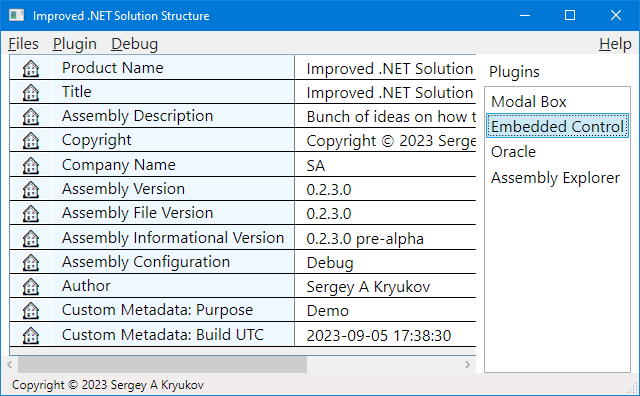
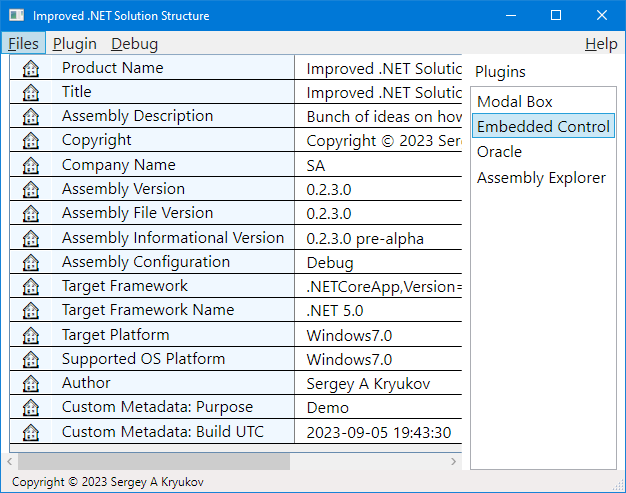
Agnostic > All, Article: new attributes

diff --git a/code/3-Application/Demo.Structure/View/WindowMain.xaml b/code/3-Application/Demo.Structure/View/WindowMain.xaml
@@ -113,9 +113,12 @@
         <Border Grid.Row="1" x:Name="borderPluginHostContaner" Visibility="Collapsed" Margin="{StaticResource TopMargin}">
         </Border>
         <Border Grid.Row="2">
-            <StatusBar Style="{StaticResource StatusBar}">
+            <StatusBar Style="{StaticResource StatusBar}" HorizontalAlignment="Stretch">
                 <StatusBarItem>
-                    <TextBlock x:Name="statusBarItemCopyrightTextBlock" Margin="{StaticResource LeftMargin}"/>
+                    <TextBlock x:Name="textBoxStatusBarCopyright" Margin="{StaticResource LeftMargin}"/>
+                </StatusBarItem>
+                <StatusBarItem  HorizontalAlignment="Right">
+                    <TextBlock x:Name="textBoxScreenshotStatusBarTool" Margin="{StaticResource ButtonStackRightMargin}"/>
                 </StatusBarItem>
             </StatusBar>
         </Border>

diff --git a/code/2-Semantic/Ui/Resources/Semantic.UI.Common.xaml b/code/2-Semantic/Ui/Resources/Semantic.UI.Common.xaml
@@ -17,7 +17,7 @@
     <Thickness x:Key="ListBoxItemPadding">8 0 8 0</Thickness>
     <Thickness x:Key="ItemPadding">8 0 8 0</Thickness>
     <Thickness x:Key="BeforeGripMargin">0 0 24 0</Thickness>
-    <Thickness x:Key="ButtonStackRightMargin">0 0 8 0</Thickness>
+    <Thickness x:Key="ButtonStackRightMargin">0 0 12 0</Thickness>
     <Thickness x:Key="BorderLeft">1 0 0 0</Thickness>
     <Thickness x:Key="BorderRight">0 0 1 0</Thickness>
     <Style x:Key="CommonFont" TargetType="Control">

diff --git a/code/3-Application/Demo.Structure/View/WindowMain.xaml.cs b/code/3-Application/Demo.Structure/View/WindowMain.xaml.cs
@@ -20,6 +20,7 @@
             SetupDialogs();
             AdvancedApplicationBase application = advancedApplication;
             listBoxPlugin.ItemsSource = pluginSet;
+            var cd = System.Reflection.CustomAttributeData.GetCustomAttributes(application.EntryAssembly);
             AddRow(Main.DefinitionSet.AssemblyPropertySet.productName, application.ProductName);
             AddRow(Main.DefinitionSet.AssemblyPropertySet.title, application.Title);
             AddRow(Main.DefinitionSet.AssemblyPropertySet.assemblyDescription, application.AssemblyDescription);
@@ -29,6 +30,10 @@
             AddRow(Main.DefinitionSet.AssemblyPropertySet.assemblyFileVersion, application.AssemblyFileVersion.ToString());
             AddRow(Main.DefinitionSet.AssemblyPropertySet.assemblyInformationalVersion, application.AssemblyInformationalVersion);
             AddRow(Main.DefinitionSet.AssemblyPropertySet.assemblyConfiguration, application.AssemblyConfiguration);
+            AddRow(Main.DefinitionSet.AssemblyPropertySet.targetFrameworkName, application.TargetFrameworkName);
+            AddRow(Main.DefinitionSet.AssemblyPropertySet.targetFrameworkDisplayName, application.TargetFrameworkDisplayName);
+            AddRow(Main.DefinitionSet.AssemblyPropertySet.targetPlatformName, application.TargetPlatformName);
+            AddRow(Main.DefinitionSet.AssemblyPropertySet.supportedOSPlatformName, application.SupportedOSPlatformName);
             if (application.AssemblyAuthors != null)
                 for (int index = 0; index < application.AssemblyAuthors.Length; ++index)
                     if (application.AssemblyAuthors[index] != null && application.AssemblyAuthors[index].Trim().Length > 0)
@@ -38,7 +43,7 @@
                     AddRow(pair.Key, pair.Value);
             initlalRowCount = rowSet.Count;
             dataGrid.ItemsSource = rowSet;
-            statusBarItemCopyrightTextBlock.Text = application.Copyright;
+            textBoxStatusBarCopyright.Text = application.Copyright;
             buttonSaveExceptionAndClose.Click += (_, _) => SaveExceptionAndClose();
             AddCommandBindings();
             void HidePluginHost() {
@@ -46,6 +51,7 @@
                     SetStateVisibility();
             } //HidePluginHost
             menu.GotKeyboardFocus += (_, _) => HidePluginHost();
+            MouseLeave += (_, _) => textBoxScreenshotStatusBarTool.Text = null;
         } //WindowMain
 
         void AddRow(string name, string value, bool isPlugin = false) {
@@ -94,6 +100,14 @@
             Agnostic.PluginLoader<Semantic.IPropertyPlugin> loader = new(System.IO.Path.Combine(AdvancedApplicationBase.Current.ExecutableDirectory, "Plugin.AssemblyExplorer.dll"));
             return loader.Instance;
         } //GetPropertyPlugin
+
+        protected override void OnRenderSizeChanged(SizeChangedInfo sizeInfo) {
+            if (((System.Windows.Input.Keyboard.GetKeyStates(System.Windows.Input.Key.LeftCtrl) & System.Windows.Input.KeyStates.Down) > 0)
+                &&
+               ((System.Windows.Input.Keyboard.GetKeyStates(System.Windows.Input.Key.LeftShift) & System.Windows.Input.KeyStates.Down) > 0))
+                textBoxScreenshotStatusBarTool.Text = Main.DefinitionSet.FormatSizeInformatin(sizeInfo.NewSize.Width, sizeInfo.NewSize.Height);
+            sizeInfo.NewSize.Width.ToString();
+        } //OnRenderSizeChanged
 
         readonly DataGridSet rowSet = new();
         readonly int initlalRowCount;

diff --git a/code/1-Agnostic/Core/Core/AssemblyWrapper.cs b/code/1-Agnostic/Core/Core/AssemblyWrapper.cs
@@ -1,5 +1,6 @@
 namespace SA.Agnostic {
     using System.Reflection;
+    using System.Runtime.Versioning;
     using Attribute = System.Attribute;
     using Path = System.IO.Path;
     using Version = System.Version;
@@ -136,6 +137,51 @@ namespace SA.Agnostic {
             } //get Authors
         } //Authors
 
+        public string TargetFrameworkName {
+            get {
+                if (targetFrameworkName == null) {
+                    var attribute = Attribute.GetCustomAttribute(assembly, typeof(TargetFrameworkAttribute));
+                    if (attribute == null) return null;
+                    targetFrameworkName = ((TargetFrameworkAttribute)attribute).FrameworkName;
+                    targetFrameworkDisplayName = ((TargetFrameworkAttribute)attribute).FrameworkDisplayName;
+                } //if
+                return targetFrameworkName;
+            } //get TargetFrameworkName
+        } //TargetFrameworkName
+        public string TargetFrameworkDisplayName {
+            get {
+                if (targetFrameworkDisplayName == null) {
+                    var attribute = Attribute.GetCustomAttribute(assembly, typeof(TargetFrameworkAttribute));
+                    if (attribute == null) return null;
+                    targetFrameworkName = ((TargetFrameworkAttribute)attribute).FrameworkName;
+                    targetFrameworkDisplayName = ((TargetFrameworkAttribute)attribute).FrameworkDisplayName;
+                } //if
+                return targetFrameworkDisplayName;
+            } //get TargetFrameworkDisplayName
+        } //TargetFrameworkDisplayName
+
+        public string TargetPlatformName {
+            get {
+                if (targetPlatformName == null) {
+                    var attribute = Attribute.GetCustomAttribute(assembly, typeof(TargetPlatformAttribute));
+                    if (attribute == null) return null;
+                    targetPlatformName = ((TargetPlatformAttribute)attribute).PlatformName;
+                } //if
+                return targetPlatformName;
+            } //get TargetPlatformName
+        } //TargetPlatformName
+
+        public string SupportedOSPlatformName {
+            get {
+                if (supportedOSPlatformName == null) {
+                    var attribute = Attribute.GetCustomAttribute(assembly, typeof(SupportedOSPlatformAttribute));
+                    if (attribute == null) return null;
+                    supportedOSPlatformName = ((SupportedOSPlatformAttribute)attribute).PlatformName;
+                } //if
+                return supportedOSPlatformName;
+            } //get SupportedOSPlatformName
+        } //SupportedOSPlatformName
+
         public string AssemblyDirectory {
             get {
                 if (executablePath == null)
@@ -148,6 +194,7 @@ namespace SA.Agnostic {
 
         readonly Assembly assembly;
         string executablePath, productName, title, copyright, companyName, assemblyDescription, assemblyConfiguration;
+        string targetFrameworkName, targetFrameworkDisplayName, targetPlatformName, supportedOSPlatformName;
         string[] authors;
         MetadataDictionary assemblyMetadata;
         Version assemblyVersion, assemblyFileVersion;

diff --git a/code/3-Application/Demo.Structure/Main/DefinitionSet.cs b/code/3-Application/Demo.Structure/Main/DefinitionSet.cs
@@ -4,6 +4,8 @@
 
         internal static readonly string markEntryAssembly = char.ConvertFromUtf32(0x1F3DA);
         internal static readonly string markPluginAssembly = char.ConvertFromUtf32(0x1F50C);
+        internal static string FormatSizeInformatin(double x, double y) =>
+            $"{x} x {y}";
 
         internal static class AssemblyPropertySet {
             internal const string productName = "Product Name";
@@ -16,7 +18,10 @@
             internal const string assemblyInformationalVersion = "Assembly Informational Version";
             internal const string assemblyConfiguration = "Assembly Configuration";
             internal const string assemblyAuthor = "Author";
-            internal const string assemblyAuthors = "Authors";
+            internal const string targetFrameworkName = "Target Framework";
+            internal const string targetFrameworkDisplayName = "Target Framework Name";
+            internal const string targetPlatformName = "Target Platform";
+            internal const string supportedOSPlatformName = "Supported OS Platform";
         } //class AssemblyPropertySet
 
         internal static class DialogPropertySet {

diff --git a/code/1-Agnostic/Ui/Application/AdvancedApplication.cs b/code/1-Agnostic/Ui/Application/AdvancedApplication.cs
@@ -59,7 +59,10 @@
         public Assembly EntryAssembly { get { return assemblyWrapper.Assembly; } }
         public MetadataDictionary AssemblyMetadata { get { return assemblyWrapper.AssemblyMetadata; } }
         public string[] AssemblyAuthors { get { return assemblyWrapper.Authors; } }
-
+        public string TargetFrameworkName { get { return assemblyWrapper.TargetFrameworkName; } }
+        public string TargetFrameworkDisplayName { get { return assemblyWrapper.TargetFrameworkDisplayName; } }
+        public string TargetPlatformName { get { return assemblyWrapper.TargetPlatformName; } }
+        public string SupportedOSPlatformName { get { return assemblyWrapper.SupportedOSPlatformName; } }
         public static new AdvancedApplicationBase Current { get { return (AdvancedApplicationBase)Application.Current; } }
 
         bool startupComplete;
